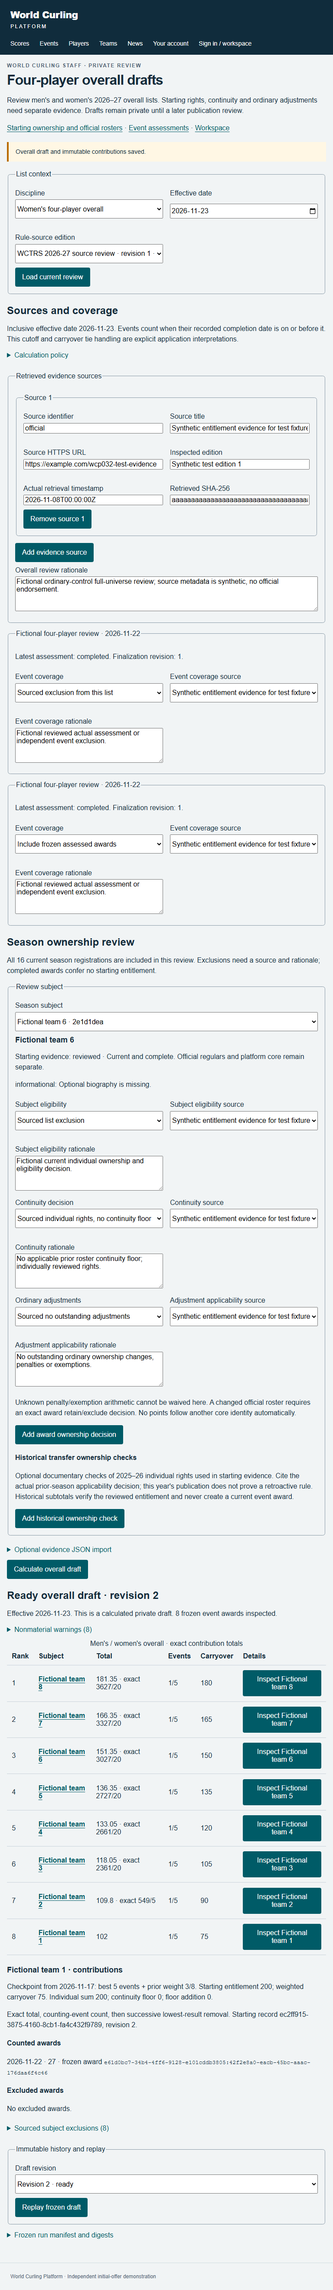
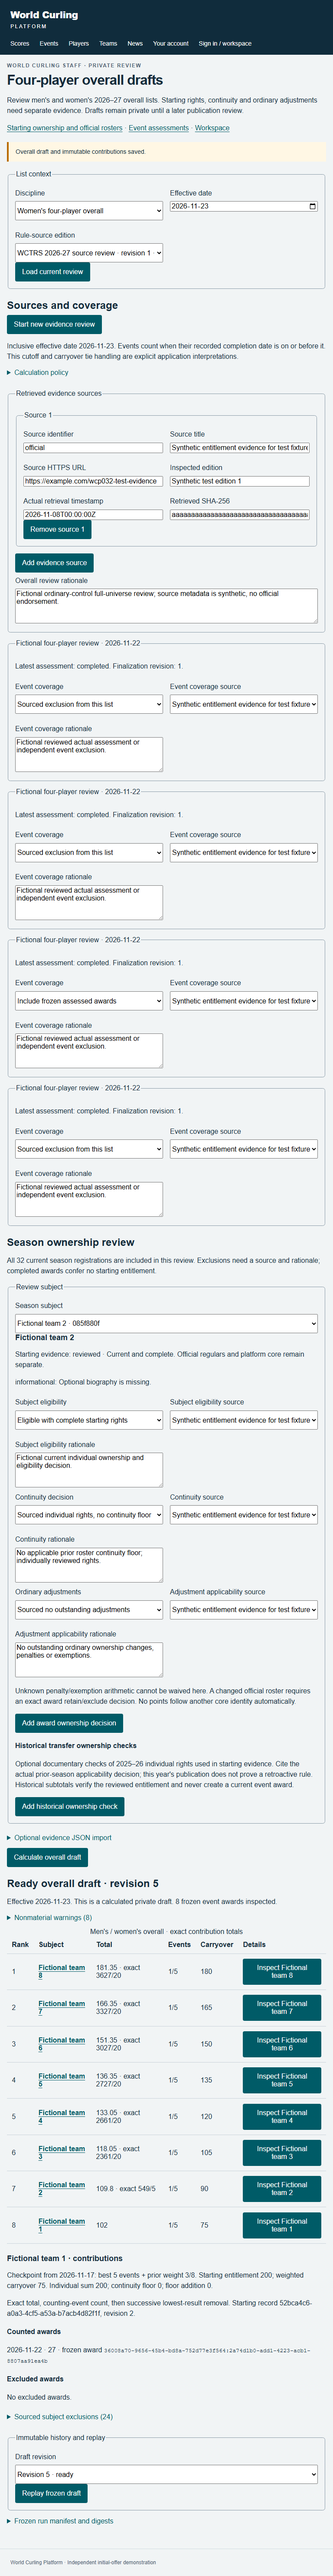
WCP-034 checkpoint: full 101 API pass and recoverable history UI (final guard pending)

diff --git a/tests/browser/overall-rankings.spec.ts b/tests/browser/overall-rankings.spec.ts
@@ -9,6 +9,7 @@ import {
 import { source } from "../ranking-inputs-fixtures";
 const db = new pg.Pool({ connectionString: process.env.DATABASE_URL, max: 3 });
 test.afterAll(() => db.end());
+test.use({ actionTimeout: 10000 });
 test("overall review loads and shows honest empty/input state", async ({
   page,
 }) => {
@@ -359,7 +360,12 @@ test("loading, failed reads, stale review, denied access and committed lost ackn
   await page.screenshot({
     path: "docs/verification/assets/WCP-034/retained-command-reload.png",
   });
-  await page.getByRole("button", { name: /Retry retained/ }).click();
+  await page
+    .getByRole("button", {
+      name: "Retry exact overall ranking command",
+      exact: true,
+    })
+    .click();
   await expect(
     page.getByText("Overall draft and immutable contributions saved.", {
       exact: true,
@@ -368,10 +374,8 @@ test("loading, failed reads, stale review, denied access and committed lost ackn
   await expect(
     page.getByRole("heading", { name: /Ready overall draft/ }),
   ).toBeVisible();
-  await page.request.post("/api/auth/sign-out", {
-    headers: { Origin: process.env.BETTER_AUTH_URL! },
-  });
   await page.goto("/admin");
+  await page.getByRole("button", { name: "Sign out", exact: true }).click();
   await page.getByLabel("Demo persona").selectOption("organizer");
   await page.getByLabel("Demo password").fill(process.env.DEMO_PASSWORD!);
   await signInWithRateWindow(
@@ -382,4 +386,152 @@ test("loading, failed reads, stale review, denied access and committed lost ackn
   await expect(page.getByRole("main").getByRole("alert")).toContainText(
     "administrator authority",
   );
+});
+
+test("ordinary sourced award exclusion, retained roster and historical ownership check persist without rewriting original draft", async ({
+  page,
+}) => {
+  test.setTimeout(120000);
+  await page.goto("/admin");
+  await page.getByLabel("Demo persona").selectOption("administrator");
+  await page.getByLabel("Demo password").fill(process.env.DEMO_PASSWORD!);
+  await signInWithRateWindow(
+    page,
+    page.getByRole("button", { name: "Sign in", exact: true }),
+  );
+  const send = async (path: string, body?: unknown) => {
+    const r = body
+      ? await page.request.post(path, {
+          headers: { Origin: process.env.BETTER_AUTH_URL! },
+          data: body,
+        })
+      : await page.request.get(path);
+    return { status: r.status(), json: () => r.json(), text: () => r.text() };
+  };
+  const f = await overallFixture(db, send),
+    url = `/api/v1/overall-rankings?discipline=${f.discipline}&date=2026-11-23&rules=${f.rulesId}`,
+    w = await (await page.request.get(url)).json(),
+    evidence = overallReviewEvidence(w.review, f);
+  const old = await page.request.post("/api/v1/overall-rankings", {
+    headers: { Origin: process.env.BETTER_AUTH_URL! },
+    data: {
+      action: "calculate",
+      discipline: f.discipline,
+      effectiveDate: "2026-11-23",
+      rulesId: f.rulesId,
+      version: w.version,
+      sourceDigest: w.review.sourceDigest,
+      requestId: crypto.randomUUID(),
+      evidence,
+    },
+  });
+  expect(old.status()).toBe(200);
+  const original = await old.json();
+  await page.goto("/admin/overall-rankings");
+  await page
+    .getByRole("combobox", { name: "Discipline", exact: true })
+    .selectOption(f.discipline);
+  await page
+    .getByRole("combobox", { name: "Rule-source edition", exact: true })
+    .selectOption(f.rulesId);
+  await page
+    .getByRole("button", { name: "Load current review", exact: true })
+    .click();
+  await expect(
+    page.getByRole("heading", { name: /Ready overall draft/ }),
+  ).toBeVisible();
+  await page
+    .getByLabel("Season subject", { exact: true })
+    .selectOption(f.seasonIds[0]);
+  await page
+    .getByLabel("Continuity decision", { exact: true })
+    .selectOption("retained");
+  await page.getByLabel("Prior final team total", { exact: true }).fill("200");
+  await page
+    .getByLabel("Prior player 4", { exact: true })
+    .fill(f.playerLists[1][0]);
+  await page
+    .getByRole("button", { name: "Add award ownership decision", exact: true })
+    .click();
+  await page
+    .getByLabel("Frozen award", { exact: true })
+    .selectOption(
+      `${w.review.events.find((e: any) => e.divisionId === f.divisionId).assessment.id}:${f.entries[0]}`,
+    );
+  await page
+    .getByLabel("Award decision", { exact: true })
+    .selectOption("exclude");
+  await page
+    .getByLabel("Award decision source", { exact: true })
+    .selectOption("official");
+  await page
+    .getByLabel("Award decision rationale", { exact: true })
+    .fill(
+      "Fictional ordinary sourced event exclusion preserves the original frozen27-point award.",
+    );
+  await page
+    .getByRole("button", {
+      name: "Add historical ownership check",
+      exact: true,
+    })
+    .click();
+  await page
+    .getByLabel("Transfer owner", { exact: true })
+    .selectOption(f.playerLists[0][0]);
+  await page
+    .getByLabel("Prior-season departure date", { exact: true })
+    .fill("2025-10-01");
+  await page
+    .getByLabel("Historical old played subtotal", { exact: true })
+    .fill("200");
+  await page
+    .getByLabel("Historical amount source", { exact: true })
+    .selectOption("official");
+  await page
+    .getByLabel("Prior-season applicability source", { exact: true })
+    .selectOption("official");
+  await page
+    .getByLabel("Historical transfer applicability rationale", { exact: true })
+    .fill(
+      "Synthetic applicable prior-season decision200×1/4=50. This is documentary starting ownership only, not a current event award or retroactive official rule claim.",
+    );
+  await page
+    .getByRole("button", { name: "Calculate overall draft", exact: true })
+    .click();
+  await expect(
+    page.getByRole("heading", { name: /Ready overall draft/ }),
+  ).toBeVisible();
+  await page
+    .getByRole("button", { name: "Inspect Fictional team 1", exact: true })
+    .click();
+  const contribution = page.getByRole("region", {
+    name: "Subject contributions",
+  });
+  await expect(contribution).toContainText("continuity floor 200");
+  await expect(contribution).toContainText("2026-11-22 · 27");
+  await expect(contribution).toContainText(
+    "Fictional ordinary sourced event exclusion",
+  );
+  await page
+    .getByLabel("Draft revision", { exact: true })
+    .selectOption(original.id);
+  await expect(
+    page.getByRole("heading", {
+      name: `Ready overall draft · revision ${original.version}`,
+      exact: true,
+    }),
+  ).toBeVisible();
+  await page
+    .getByRole("button", { name: "Inspect Fictional team 1", exact: true })
+    .click();
+  await expect(
+    page.getByRole("region", { name: "Subject contributions" }),
+  ).toContainText("No excluded awards.");
+  const unchanged = await (
+    await page.request.get(`/api/v1/overall-rankings?id=${original.id}`)
+  ).json();
+  expect(unchanged.resultDigest).toBe(original.resultDigest);
+  expect(
+    unchanged.result.rows.find((r: any) => r.id === f.seasonIds[0]).total,
+  ).toBe("102");
 });

diff --git a/src/components/overall-rankings-workbench.tsx b/src/components/overall-rankings-workbench.tsx
@@ -1030,7 +1030,11 @@ export function OverallRankingsWorkbench() {
                     </td>
                     <td>{amount(r.carryover)}</td>
                     <td>
-                      <button type="button" onClick={() => setDetailId(r.id)}>
+                      <button
+                        type="button"
+                        disabled={locked}
+                        onClick={() => setDetailId(r.id)}
+                      >
                         Inspect {r.name}
                       </button>
                     </td>
@@ -1095,6 +1099,7 @@ export function OverallRankingsWorkbench() {
               <select
                 value={selected.id}
                 onChange={async (e) => {
+                  setLoading(true);
                   try {
                     setSelected(
                       await read<Saved>(`${path}?id=${e.target.value}`),
@@ -1102,6 +1107,8 @@ export function OverallRankingsWorkbench() {
                     setDetailId("");
                   } catch (e) {
                     setError((e as Error).message);
+                  } finally {
+                    setLoading(false);
                   }
                 }}
               >

diff --git a/docs/verification/WCP-034.md b/docs/verification/WCP-034.md
@@ -23,3 +23,13 @@ Both review concerns were established failures before fixes: append-only assessm
 Production build1 compiled/typechecked/generated36pages. Focused production browser run3 passed **2/2**,24.0s, with ordinary controls over16 registration subjects, real033 awards, ready/blocked revisions, persisted102=27+75 explanation, frozen replay, keyboard and all three viewport/axe/normal-console/network checks. Actual three full screenshots were opened/inspected; viewport screenshots added for the next run. Complete uniquely retained reports: root `.runtime/wcp034-reports/overall-browser3[-results]`, log `overall-browser3.log`. Run2 retained1pass/1locator failure: an implicit select label included option text; corrected combobox selectors passed run3. Run1 development run retained its initial session-loading timeout and was interrupted during repeated HMR refreshes; no browser acceptance is claimed from it. Initial red browser trace was overwritten before unique report paths were adopted; its textual red log survives.
 
 Run4 uncovered saved textarea/implicit-label selectors and saved evidence missing newly registered rows. It was interrupted with artifacts retained, without a pass claim. The UI now gives controls explicit separate labels and rebases additional subjects/events to **unknown**, preserving existing decisions; a new-review action resets editable evidence without erasing history. Production rebuild2 and final browser/negative-state/full inherited/fresh-database verification remain pending. Historical ordinary transfer checks retain distinct documentary applicability evidence and never manufacture current awards; all exact October31 deadlines remain unresolved.
+
+## Frozen pre-overlap-guard broad run
+
+The complete standard `npm run test:api` passed **101/101** (91 top-level TAP entries plus nested scenarios), no failures/skips,539.146s, on clean owned`wcp034_acceptance`, production build3/app3134/news3234/matching worker. Source stayed frozen. This includes all inherited APIs and034's audit-failure rollback/exact recovery, immutable run/receipt rejection, real event awards, source barriers and denial cases. Full log is root `.runtime/wcp034-reports/api-all.log`. This is explicitly the source **before** the later overlapping-positive-rights guard; affected034 checks will rerun afterward.
+
+Fresh owned`wcp034_fresh_20261109`: migrate/seed/migrate/seed and real worker probe passed. Independent actual-file ledger verification reports **24/24** migration hashes, zero overall runs and one verified probe row; root `.runtime/wcp034-reports/fresh-ledger-proof.log`. Acceptance database received the same complete24 migrations/seed, with retained `acceptance-migrate.log`/`acceptance-seed.log` beside it.
+
+Browser5's ordinary responsive workflow passed on corrected explicit labels and rebasing, before interruption in a negative-test button-name locator. Browser6 passed the recovery path through exact retry, then its denied-access fixture used sign-out without JSON content type and was interrupted. Corrected browser7 negative workflow passed **1/1**,10.3s, exercising loading, failed/stale reads, retained last-good data, actual committed lost acknowledgement, reload, exact retry and organizer denial. The second browser7 scenario persisted sourced event exclusion, three-of-four continuity and historical transfer ownership; its final history inspection exposed an async selection race. Production build3 adds honest loading/locked contribution controls, and the regression now waits for the exact selected revision. A full final browser run is still required. These failed/interrupted scopes remain retained separately under root `.runtime/wcp034-reports/overall-browser{5,6,7}[-results]`; no aggregate success is claimed from them.
+
+Opened/inspected actual desktop/tablet/phone viewport PNGs and retained-command reload screenshot. Normal controls, labels and recovery state are readable, without body overflow. The phone's table is deliberately horizontally scrollable; additional direct table/keyboard screenshots/checks are being added to final acceptance.
